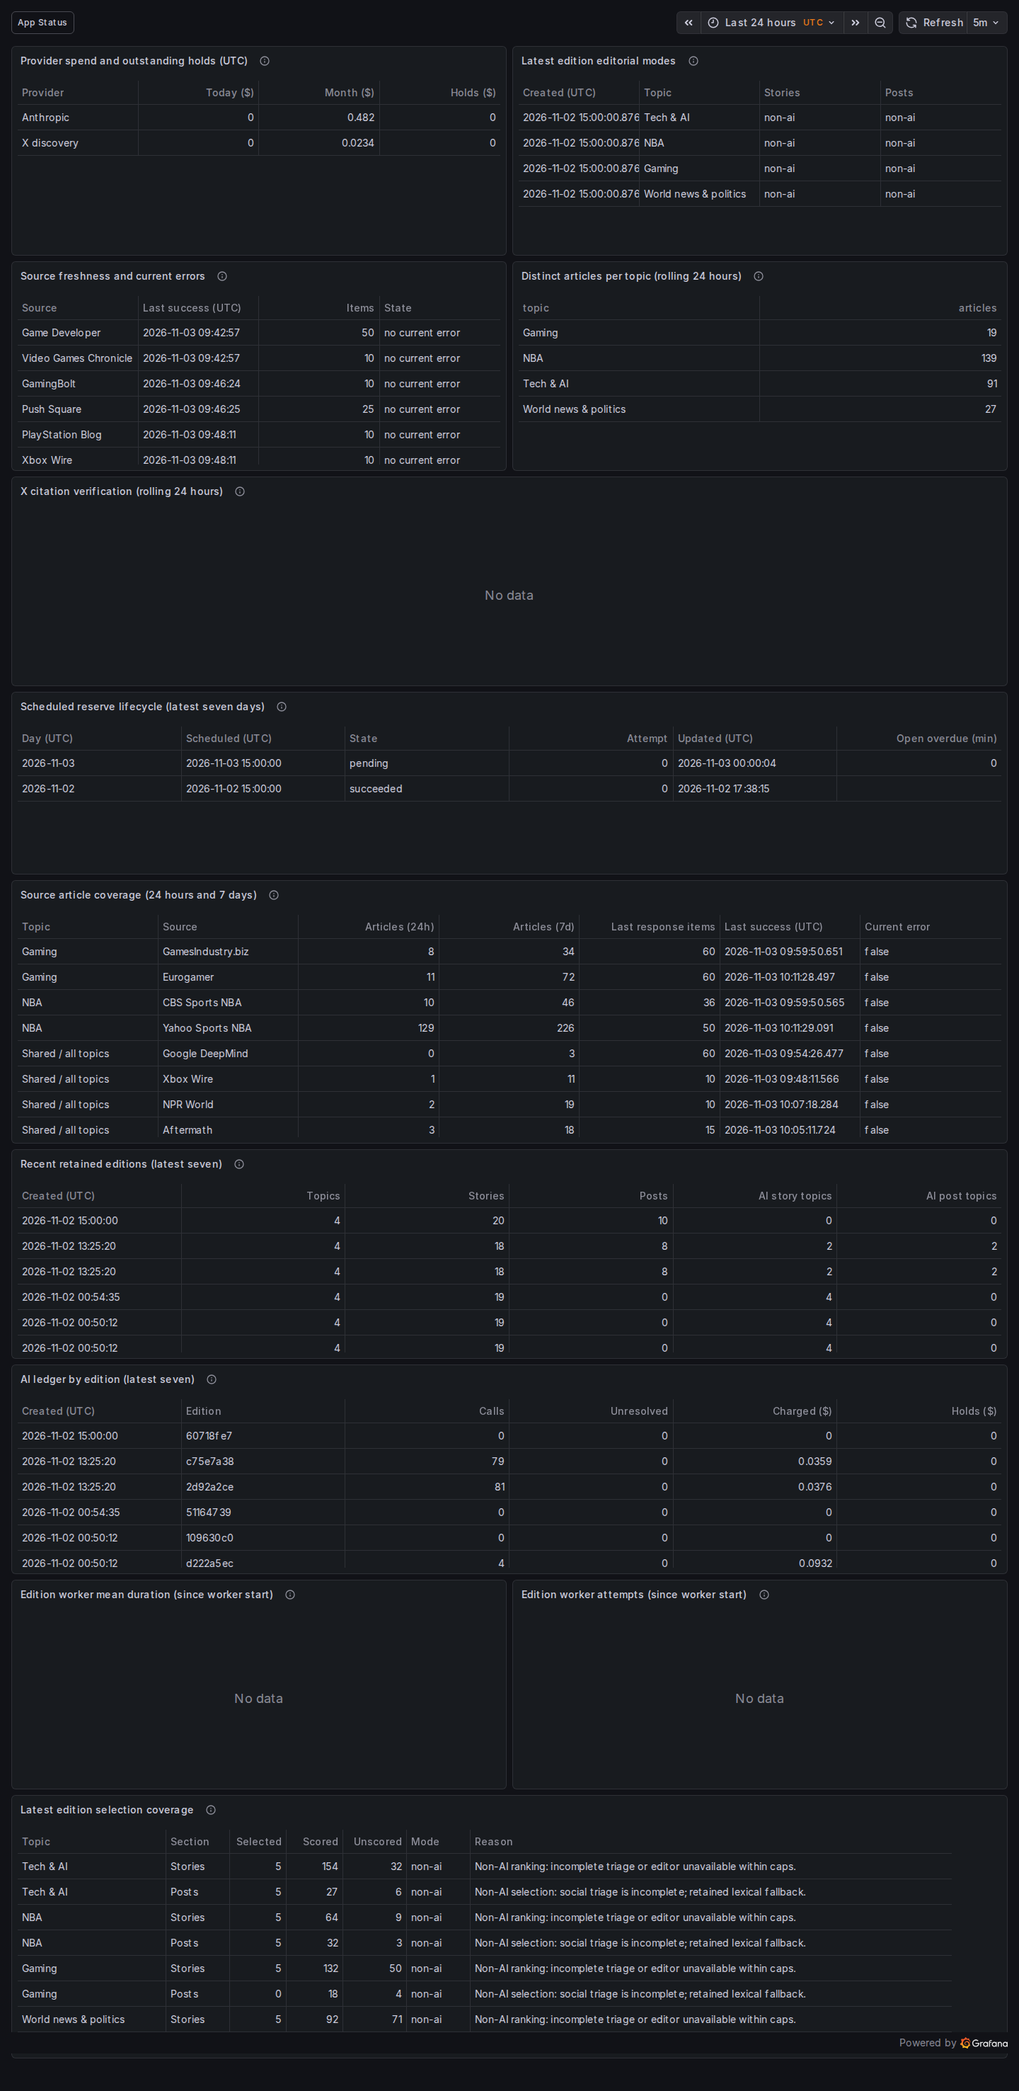
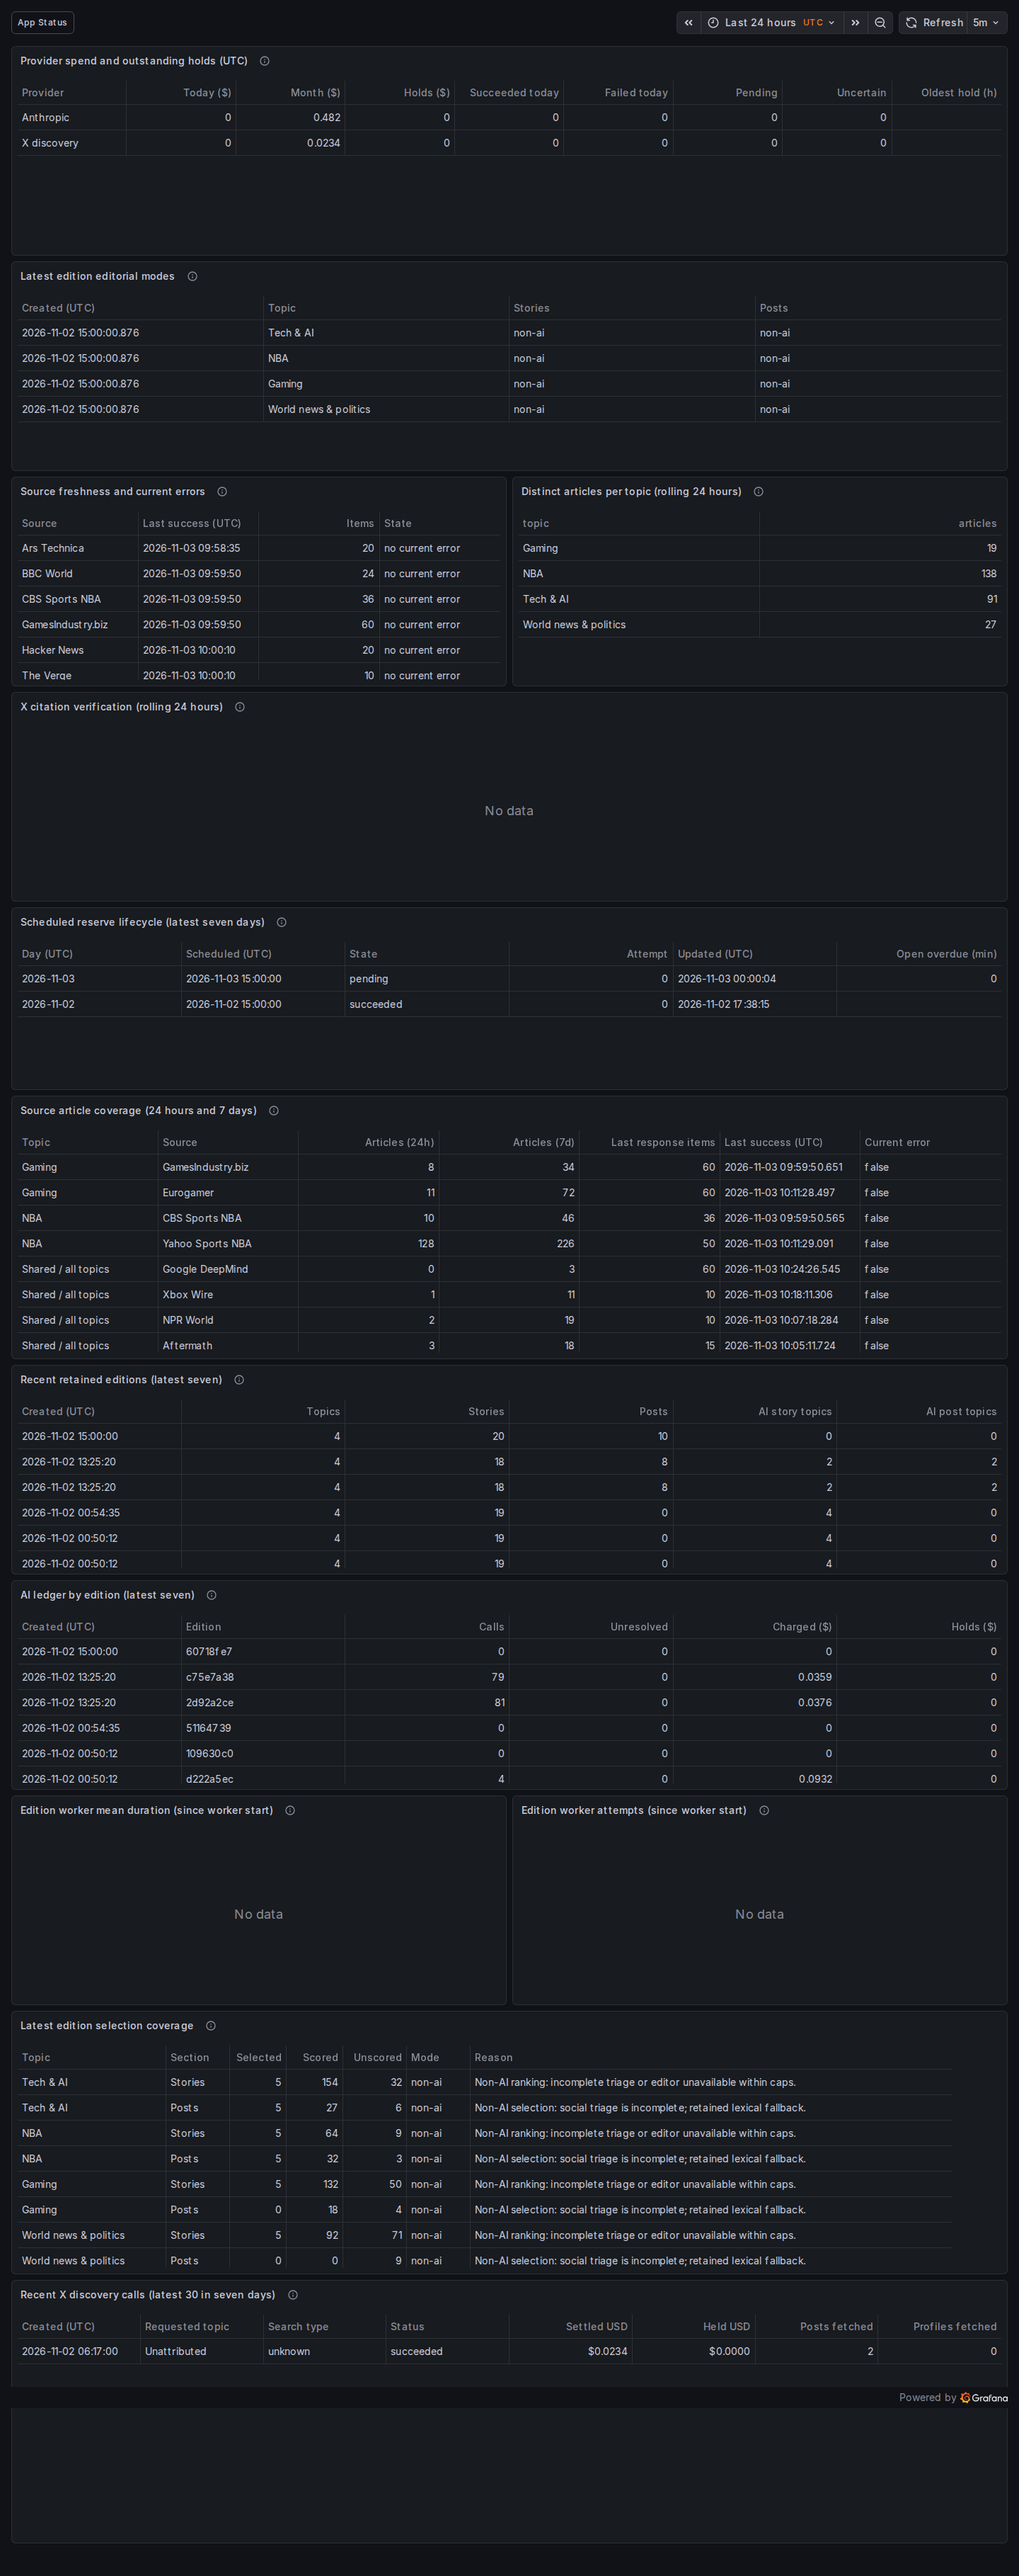
Show recent X discovery call evidence in Product dashboard

diff --git a/scripts/lib/check-grafana.ts b/scripts/lib/check-grafana.ts
@@ -249,7 +249,7 @@ export async function checkGrafana() {
         width: 1440,
         height:
           dashboard.uid === 'nd-product'
-            ? 2900
+            ? 3400
             : ['nd-runtime', 'nd-redis'].includes(dashboard.uid)
               ? 2100
               : 1100,
@@ -511,6 +511,35 @@ export async function checkGrafana() {
     await page.screenshot({
       path: 'docs/screenshots/grafana-product-selection-mobile.png',
     });
+    await page.goto(`${base}/d/nd-product?kiosk&viewPanel=panel-13`, {
+      waitUntil: 'networkidle',
+    });
+    await page
+      .getByRole('heading', {
+        name: 'Recent X discovery calls (latest 30 in seven days)',
+        exact: true,
+      })
+      .waitFor();
+    await page
+      .getByRole('columnheader', { name: 'Requested topic', exact: true })
+      .waitFor();
+    assert.equal(
+      await page
+        .locator('[data-testid="data-testid Panel status error"]')
+        .count(),
+      0,
+    );
+    await page.screenshot({
+      path: 'docs/screenshots/grafana-product-x-calls-mobile.png',
+    });
+    await page.setViewportSize({ width: 1440, height: 1100 });
+    await page
+      .getByRole('columnheader', { name: 'Profiles fetched', exact: true })
+      .waitFor();
+    await page.screenshot({
+      path: 'docs/screenshots/grafana-product-x-calls-desktop.png',
+    });
+    await page.setViewportSize({ width: 390, height: 844 });
     await page.goto(`${base}/d/nd-database?kiosk`, {
       waitUntil: 'networkidle',
     });

diff --git a/PROGRESS.md b/PROGRESS.md
@@ -4,15 +4,6 @@ Archived: [iteration 367](docs/progress-archive/2026-11-03-iteration-367.md), [i
 
 Earlier entries: [iterations 269–270](docs/progress-archive/2026-11-03-iterations-269-270.md), [271–272](docs/progress-archive/2026-11-03-iterations-271-272.md), [273–274](docs/progress-archive/2026-11-03-iterations-273-274.md), [275–276](docs/progress-archive/2026-11-03-iterations-275-276.md), [277–278](docs/progress-archive/2026-11-03-iterations-277-278.md), [279–280](docs/progress-archive/2026-11-03-iterations-279-280.md), [282](docs/progress-archive/2026-11-03-iteration-282.md), [283](docs/progress-archive/2026-11-03-iteration-283.md), [284](docs/progress-archive/2026-11-03-iteration-284.md).
 
-## 2026-11-03: iteration 368 — read-only Database dashboard
-
-- Started clean on main; no leftover work. App units/health green, no current source errors or failed digest jobs; two retained ingestion failures have recovered sources. Scheduled evidence remains due Nov 3 15:00 UTC.
-- Advanced O6 with five Database tables: activity/cache, allocated storage, relation sizes/row estimates, vacuum/analyze and aggregate locks. Existing restricted reader, no extra grants, SQL/session details or DB restart. Statistics are current snapshots with explicit cumulative/estimate/null caveats; top queries remain O7.
-- Extended Grafana read-only verification for table rendering and Database mobile capture; inspected desktop/mobile screenshots. Updated handbook/plan/TASKS. Redis/Agent and full Product cap/timing coverage remain open.
-- Verification: `pnpm format`, `pnpm lint:fix`, `pnpm build`, handbook 09 and `git diff --check` passed. Initial `pnpm check` passed all 232 unit/172 integration assertions but exited 143 after coverage; repeat `pnpm check` passed with exit 0 (232 unit/172 integration). Initial Grafana check preceded the 30-second provisioning reload; final `--verify-grafana --verify-o4` passed all 36 queries (33 populated), five Database tables and six healthy scrape targets.
-- Grafana hot-reloaded the installed dashboard; no service code/config restart needed. Health green, retained real scheduled edition four topics/20 stories/10 posts. No paid calls, Reddit requests or production content/spending-setting changes.
-- Next: scheduled evidence/acks first; otherwise remaining O6 dashboards. Production activation stays gated.
-
 ## 2026-11-03: iteration 369 — source coverage and edition history
 
 - Started clean on main; no leftover work. Four app services/health green, no current source errors or failed digest jobs. Two retained ingestion failures have recovered sources; Nov 3 15:00 UTC evidence remains pending.
@@ -122,4 +113,14 @@ Earlier entries: [iterations 269–270](docs/progress-archive/2026-11-03-iterati
 - Verification: `pnpm format`, `pnpm lint:fix`, `pnpm check` (232 unit/172 integration, exit 0), `pnpm build`, handbook 09 and `git diff --check` passed. Observability Grafana/O4 check passed: 62 queries/57 populated, seven scrape targets.
 - Inspected final desktop/mobile outcome captures; corrected probes to scroll virtualized mobile columns and await rendered text. Discarded unrelated regenerated screenshots. Updated handbook/plan/TASKS; archived iteration 367.
 - Grafana hot-reloaded; no service code/config restart needed. No content, schedule, caps or production activation changes.
+- Next: scheduled evidence/acks first; otherwise remaining O6 Product caps/individual timings or O7 Postgres collection. Activation stays gated.
+
+## 2026-11-03: iteration 381 — X discovery call history
+
+- Started clean on main; no leftover work. Services/health green, 32 sources without current errors and no retained failed digest jobs. Scheduled evidence remains due 15:00 UTC.
+- Product now shows latest 30 X calls in seven days: reservation-time topic/search type, current status, settled cost, unresolved hold and reported fetched post/profile counts. Unknowns stay blank/unattributed; fetched counts are not verified yield. Added five operational reader columns; no content access or data writes.
+- Restricted-role Python/psql CTE probes passed mixed/empty histories, nulls, hold/settled separation, cutoff and limit; live history has one legacy call with unknown topic/type. Corrected the probe's denied blanket SELECT to named allowed columns.
+- `pnpm format`, `pnpm lint:fix`, `pnpm check` (232 unit/172 integration), `pnpm build`, handbook 09 and `git diff --check` passed. Browser probe needed a taller full-dashboard capture; focused desktop/mobile X history screenshots inspected.
+- `check-observability.ts --verify-grafana --verify-o4` passed: 63 queries/58 populated, seven healthy scrape targets; Grafana 181 MiB. Discarded unrelated regenerated captures.
+- Handbook/plan/TASKS updated; compacted background task history and archived iteration 368. Grafana hot-reloaded; no service code/config restart required. No paid calls, Reddit requests, content, schedule, caps or activation changes.
 - Next: scheduled evidence/acks first; otherwise remaining O6 Product caps/individual timings or O7 Postgres collection. Activation stays gated.

diff --git a/TASKS.md b/TASKS.md
@@ -70,4 +70,4 @@ M0–M2; M3/M6/M7 foundations implemented.
 - [ ] STEERING 2a (lower priority): finish repository/HTTP characterization before ORM. Isolated DB/Redis, migrations, HTTP/worker and synthetic-AI goldens implemented (183–270); gaps: [database verification](docs/DATABASE-VERIFICATION.md). No live DB; finish 2a before ORM. Recorded-response golden open.
 - [ ] STEERING 2b (only after 2a is green): record Drizzle decision/schema parity, back up live DB, gradually replace raw SQL behind ports and enforce boundaries.
 
-- [ ] STEERING 24 (background): [observability plan](docs/observability-plan.md), only while product work is blocked. O1–O5 verified (354–364): private runtime, HTTP, external-call, job-attempt and queue-state/schedule metrics scraped. O6 advanced (365–373): private Grafana Host/Services/HTTP/Jobs, Errors/logs and read-only Product/Database dashboards, source coverage, edition history, attributed AI costs/holds and app runtime memory/heap/descriptors/GC/CPU/active work/event-loop delay; Redis shipped (374); Product worker attempt timing/counts shipped (375); source coverage adds topic/seven-day context (376); latest-edition selection/triage/unscored coverage and reasons shipped (377). Reserve update/overdue context shipped (378); provider unresolved-call counts/oldest hold age and empty-ledger rows shipped (379). Provider daily succeeded/failed call counts shipped (380). Agent, Database top queries (O7) and Product caps/individual run timing remain. Scheduled evidence/acks take priority; preserve caps and run protection.
+- [ ] STEERING 24 (background): [observability plan](docs/observability-plan.md), only while product work is blocked. O1–O5 verified; O6 has Host/Services/HTTP/Jobs/Errors/Product/Database/Redis/App runtime dashboards. Product includes coverage, selection, edition costs/holds, reserve age, provider outcomes and per-call X history (381). Agent, Database top queries (O7) and Product caps/individual timing remain. Scheduled evidence/acks take priority; preserve caps and run protection.

diff --git a/docs/progress-archive/2026-11-03-through-368.md b/docs/progress-archive/2026-11-03-through-368.md
@@ -1,0 +1,8 @@
+## 2026-11-03: iteration 368 — read-only Database dashboard
+
+- Started clean on main; no leftover work. App units/health green, no current source errors or failed digest jobs; two retained ingestion failures have recovered sources. Scheduled evidence remains due Nov 3 15:00 UTC.
+- Advanced O6 with five Database tables: activity/cache, allocated storage, relation sizes/row estimates, vacuum/analyze and aggregate locks. Existing restricted reader, no extra grants, SQL/session details or DB restart. Statistics are current snapshots with explicit cumulative/estimate/null caveats; top queries remain O7.
+- Extended Grafana read-only verification for table rendering and Database mobile capture; inspected desktop/mobile screenshots. Updated handbook/plan/TASKS. Redis/Agent and full Product cap/timing coverage remain open.
+- Verification: `pnpm format`, `pnpm lint:fix`, `pnpm build`, handbook 09 and `git diff --check` passed. Initial `pnpm check` passed all 232 unit/172 integration assertions but exited 143 after coverage; repeat `pnpm check` passed with exit 0 (232 unit/172 integration). Initial Grafana check preceded the 30-second provisioning reload; final `--verify-grafana --verify-o4` passed all 36 queries (33 populated), five Database tables and six healthy scrape targets.
+- Grafana hot-reloaded the installed dashboard; no service code/config restart needed. Health green, retained real scheduled edition four topics/20 stories/10 posts. No paid calls, Reddit requests or production content/spending-setting changes.
+- Next: scheduled evidence/acks first; otherwise remaining O6 dashboards. Production activation stays gated.

diff --git a/docs/handbook/01-app/09-observability.md b/docs/handbook/01-app/09-observability.md
@@ -254,6 +254,7 @@ rolling 24-hour distinct articles and X citation verification, seven reserve
 lifecycle rows, per-source 24-hour and seven-day article coverage grouped by topic (including zero counts), and the
 latest seven retained edition snapshots with story/post totals and AI topic counts.
 Provider rows remain visible when a ledger is empty. Succeeded and failed call counts use the UTC creation day and current ledger status. Failed counts cover released ledger failures; uncertain transport outcomes stay separate. Cache hits and budget refusals create no call row. Pending and uncertain call counts cover all days; oldest hold age starts at call creation, not the last retry, and stays blank when no unresolved calls exist.
+The X call history shows the latest 30 calls created in seven days, with the reservation-time topic, search type, current status, settled cost, unresolved hold and provider-reported fetched post/profile counts. Missing counts stay blank. It includes scheduled and manual calls; fetched posts can include repeats and parent/thread posts, so these counts do not measure verified additions or selection quality.
 A separate table matches Anthropic ledger calls to those edition IDs, showing charges
 and unresolved holds. Zero calls may mean cached or fallback work. It excludes X
 discovery and unpublished attempts, so it is not total scheduled-run spend.

diff --git a/docs/observability-plan.md b/docs/observability-plan.md
@@ -325,3 +325,5 @@ and available funds remain in app Status. Synthetic read-only SQL and live
 queries cover empty and mixed-state ledgers.
 
 O6 incremental progress (380): Product provider spend includes succeeded/failed call counts for the UTC creation day. Current ledger outcomes only; cache reuse and refused admissions create no row, and uncertain transport failures remain separate. Existing reader grants only.
+
+O6 incremental progress (381): Product adds the latest 30 X discovery calls in seven days, with reservation-time topic/search type, current status, settled cost/holds and reported fetched counts. Null counts stay unknown; fetched posts are not verified yield. Restricted reader gains only the five required operational columns.
